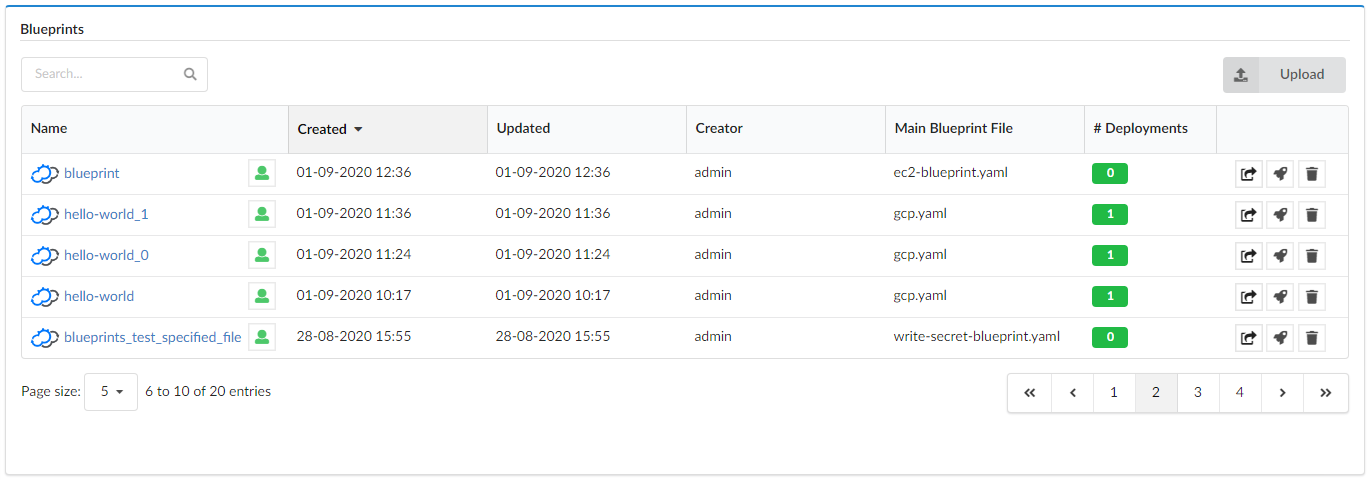
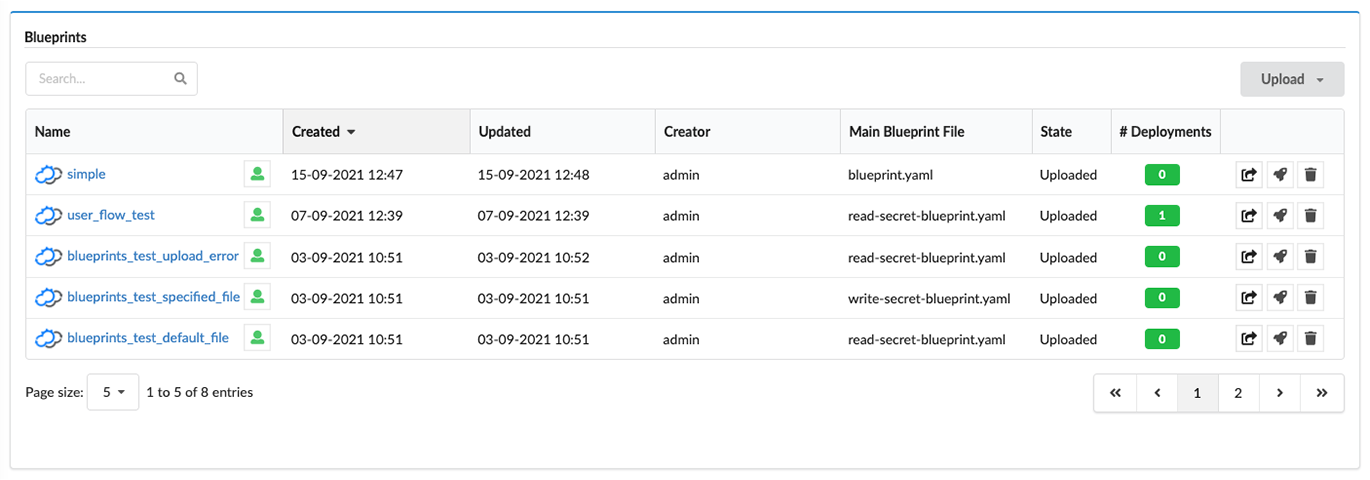
RD-3069 Update documentation for Blueprint flow changes (#1960)

diff --git a/content/working_with/console/widgets/blueprints.md b/content/working_with/console/widgets/blueprints.md
@@ -33,9 +33,18 @@ There are also action buttons to upload a blueprint, create deployment, delete b
 
 #### Uploading a Blueprint
 
+##### Using marketplace
+
 1. Click the **Upload** button.
-2. In the Upload Blueprint dialog, provide the URL of the remote archive in which the blueprint is located or select a local blueprint archive.
-3. Enter the `Blueprint name` and `Blueprint YAML file`.   
+2. In the menu, select **Upload from Marketplace** option.
+3. In the Blueprint Marketplace modal, click **Upload** button on one of the blueprints shown in a table.
+
+##### Using blueprint package
+
+1. Click the **Upload** button.
+2. In the menu click **Upload a blueprint package** option.
+3. In the Upload Blueprint dialog, provide the URL of the remote archive in which the blueprint is located or select a local blueprint archive.
+4. Enter the `Blueprint name` and `Blueprint YAML file`.   
    `Blueprint name` is the name with which you want to identify this blueprint once uploaded.<br>
    `Blueprint YAML file` is the name of the YAML file in the archive that you want to upload as the main blueprint - as there can be multiple files in the archive. If a blueprint filename field is omitted, the default `blueprint.yaml` filename is used, but if a file under that name does not exist in the archive, an error message will appear.    
 4. (Optional) Provide a .png file URL or select a local one, to appear as an icon in the catalog or table view next to the blueprint name.   
@@ -44,6 +53,11 @@ There are also action buttons to upload a blueprint, create deployment, delete b
 The default visibility is "Tenant", and according to the logged-in user's permissions you can also choose other levels of [resource visibilities]({{< relref "working_with/manager/resource-visibility.md" >}}).<br>
 6. Click **Upload**.
 
+##### Using {{< param cfy_composer_name >}}
+
+1. Click the **Upload** button.
+2. In the menu, click **Generate in the Composer** option.
+3. {{< param cfy_composer_name >}} will be opened in a new tab and there you can create a blueprint.
 
 #### Deploying a Blueprint
 
@@ -82,5 +96,9 @@ See Settings section for details on how to turn on/off this feature.
 ## Settings
 
 * `Refresh time interval` - The time interval in which the widget’s data will be refreshed, in seconds. Default: 10 seconds
-* `Enable click to drill down` - This option enables redirecting to the blueprint’s drill-down page upon clicking on a specific blueprint. Default: True
-* `Display style` - Can be either Catalog or table. The deployments status column is only available in list mode.  Default: table
+* `Enable click to drill down` - This option enables redirecting to the blueprint’s drill-down page upon clicking on a specific blueprint. Default: Yes
+* `Display style` - Defines how the blueprints list should be displayed. Can be either Catalog or Table. Default: Table
+* `Show Composer options` - This option allows to show {{< param cfy_composer_name >}} options in menu and in the blueprints list. Default: No
+* `Marketplace tabs` - Allows to define multiple sources from which blueprints are taken to populate Blueprint Marketplace modal. User can define a name and URL for each tab.
+* `Marketplace display style` - Defines how the Blueprints Marketplace modal should be displayed. Can be either Catalog or Table.  Default: Table
+* `List of fields to show in the marketplace table` - Allow to change the list of visible columns in the Blueprint Marketplace modal. Works only when Marketplace display style is set to Table. Default: Name, Description.

diff --git a/content/working_with/console/widgets/blueprintCatalog.md b/content/working_with/console/widgets/blueprintCatalog.md
@@ -28,4 +28,5 @@ These parameters are a must if you want to configure the widget to access privat
 * `GitHub User` - GitHub user or organization account name which is the owner of the repository to fetch. Default: cloudify-examples
 * `GitHub Filter` - Optional filter for GitHub repositories. See GitHub’s web page ‘Searching repositories’ for more details.
 * `Display style` - defines whether the widget’s view is Catalog or Table. Default: Catalog
+* `List of fields to show in the table` - defines visible columns in table view only. Default: Name, Description, Created, Updated
 * `Sort by name` -  if set to true, then blueprints will be sorted by name. Default: No
